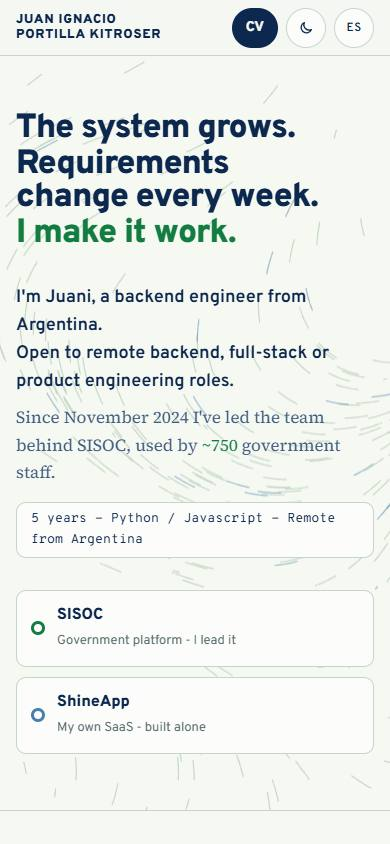
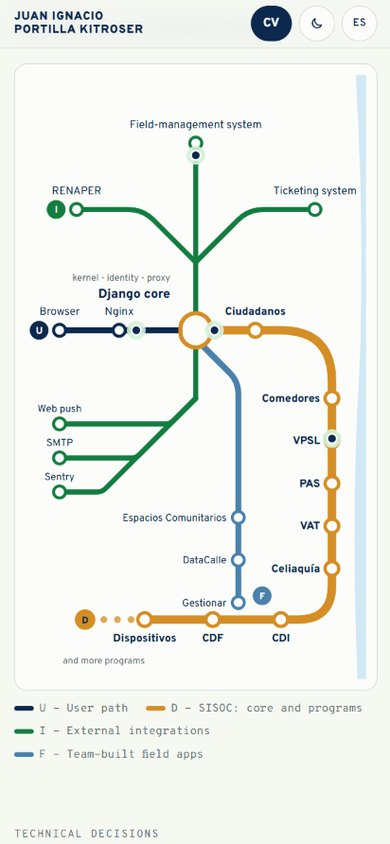
feat: apply Juani's island 2 copy, new phone captures and 12 s works rotation

diff --git a/src/content/projects.ts b/src/content/projects.ts
@@ -78,7 +78,7 @@ export const projects = [
       { src: "/images/proyectos/shineapp/panel.jpg", alt: "Panel de ShineApp con la agenda del día, los indicadores del período y la caja por categoría", width: 1440, height: 900 },
       { src: "/images/proyectos/shineapp/escritorio.jpg", alt: "Pantalla de acceso de ShineApp", width: 1440, height: 900 },
     ],
-    phoneImage: { src: "/images/proyectos/shineapp/celular.jpg", alt: "Pantalla de acceso de ShineApp en el celular", width: 390, height: 844 },
+    phoneImage: { src: "/images/proyectos/shineapp/celular.jpg", alt: "Panel de ShineApp en el celular", width: 390, height: 844 },
     url: "https://shineapp.lat/",
   },
   {
@@ -114,7 +114,7 @@ export const projects = [
     images: [
       { src: "/images/proyectos/consignataria-hacienda/escritorio.jpg", alt: "Inicio de la landing de la consignataria: hacienda pastando y la propuesta con sus botones de contacto", width: 1440, height: 900 },
     ],
-    phoneImage: { src: "/images/proyectos/consignataria-hacienda/celular.jpg", alt: "Inicio de la landing de la consignataria en el celular", width: 390, height: 844 },
+    phoneImage: { src: "/images/proyectos/consignataria-hacienda/celular.jpg", alt: "Cotizador de hacienda de la consignataria en el celular", width: 390, height: 844 },
     url: "https://gymg.com.ar/",
   },
   {
@@ -150,7 +150,7 @@ export const projects = [
     images: [
       { src: "/images/proyectos/portfolio-desarrollador/escritorio.jpg", alt: "Inicio del portfolio en tema oscuro, con el titular y los proyectos SISOC y ShineApp", width: 1440, height: 900 },
     ],
-    phoneImage: { src: "/images/proyectos/portfolio-desarrollador/celular.jpg", alt: "Inicio del portfolio en el celular", width: 390, height: 844 },
+    phoneImage: { src: "/images/proyectos/portfolio-desarrollador/celular.jpg", alt: "Mapa de sistemas del portfolio en el celular", width: 390, height: 844 },
     url: "https://juanikitro.com/",
   },
   {

diff --git a/src/app/world.css b/src/app/world.css
@@ -7118,14 +7118,6 @@ html[data-motion-tier="reduced"] .works-index__shot {
   margin-block: 0.25rem 0.75rem;
 }
 
-.proposal__eyebrow {
-  font-size: 0.72rem;
-  font-weight: 600;
-  letter-spacing: 0.1em;
-  text-transform: uppercase;
-  color: var(--moss);
-}
-
 .proposal__base {
   display: grid;
   gap: 0.15rem;
@@ -7359,10 +7351,6 @@ html[data-motion-tier="reduced"] .works-index__shot {
   .proposal-frame--scene .proposal {
     --p-gap: 2.4cqi;
     --p-pad: 4.6cqi 5cqi 5cqi;
-  }
-
-  .proposal-frame--scene .proposal__eyebrow {
-    font-size: 3.7cqi;
   }
 
   .proposal-frame--scene .proposal__base {
@@ -8199,7 +8187,8 @@ html[data-motion-tier="reduced"] .works-index__shot {
 }
 
 /* Works autoplay: a moss bar fills along the active row's bottom edge in
- * 5 s; it pauses off screen or in a hidden tab, and
+ * 12 s (like the island 2 cases, time for a slow reader; Juani, 22 November
+ * 2026); it pauses off screen or in a hidden tab, and
  * rests at zero while the pointer or focus is on the index. */
 .works-index__progress {
   position: absolute;
@@ -8209,7 +8198,7 @@ html[data-motion-tier="reduced"] .works-index__shot {
   background: var(--moss);
   transform: scaleX(0);
   transform-origin: left center;
-  animation: works-progress 5s linear forwards;
+  animation: works-progress 12s linear forwards;
   animation-play-state: paused;
 }
 

diff --git a/src/content/case-picker.ts b/src/content/case-picker.ts
@@ -28,11 +28,11 @@ export type CaseOption = {
 export type CaseArt = { src: string; frames?: number };
 
 export const casePicker = {
-  prompt: "¿Qué te está pasando hoy? Elegí lo que más se parece y te mostramos por dónde empezar.",
+  prompt: "¿Qué te está pasando hoy?",
   options: [
     { planId: "landing", text: "Me encuentran, pero no tengo dónde mostrar lo que hago.", art: { src: "34-isla2-flor" } },
     { planId: "web-gestion", text: "Paso el día coordinando turnos por WhatsApp.", art: { src: "34-isla2-brote" } },
-    { planId: "sistema", text: "Mi operación vive en planillas y ya no alcanza.", art: { src: "34-isla2-mariposa-tira", frames: 5 } },
+    { planId: "sistema", text: "Mi negocio vive en Excel, WhatsApp y mi cerebro.", art: { src: "34-isla2-mariposa-tira", frames: 5 } },
   ] satisfies readonly CaseOption[],
   resultEyebrow: "Te conviene empezar por",
   detailsCta: "Ver qué incluye",
@@ -42,7 +42,6 @@ export const casePicker = {
    * module per question as it lands, and a closing line.
    */
   proposal: {
-    eyebrow: "Tu propuesta",
     base: { title: "Sistema de gestión", text: "Clientes, ventas y turnos en un solo panel." },
     modules: [
       { question: "¿Cuánto sale?", title: "Bot de WhatsApp", text: "Responde precios y consultas al instante." },

diff --git a/src/components/world/works-index.tsx b/src/components/world/works-index.tsx
@@ -29,7 +29,7 @@ function PendingShot({ index }: { index: string }) {
 
 /**
  * Works as an index with a floating preview (option A of
- * docs/plans/2026-11-20-propuestas.md). Every 5 s the next project takes the
+ * docs/plans/2026-11-20-propuestas.md). Every 12 s the next project takes the
  * preview (a crossfade), with a bar filling under its row to mark the time.
  * Hovering or focusing a project selects it and holds the count at zero
  * until the pointer or focus leaves the index, when it starts again. The
@@ -72,7 +72,7 @@ export function WorksIndex({ projects }: { projects: readonly ProjectEntry[] }) 
     };
   }, []);
 
-  /** Selects a project and starts its 5 s count from zero. */
+  /** Selects a project and starts its 12 s count from zero. */
   function select(index: number) {
     setActive(index);
     setCycle((value) => value + 1);

diff --git a/src/content/islands.ts b/src/content/islands.ts
@@ -8,16 +8,15 @@ export type TitleSegment = string | { em: string };
 
 export type IslandCopy = {
   title: readonly TitleSegment[];
-  body: string;
+  /** Optional: island 2 dropped its line on 22 November 2026. */
+  body?: string;
   /** One line per item of a list the island walks through (the six steps). */
   details?: readonly string[];
 };
 
 export const islandCopy = {
   problem: {
-    title: ["Construyamos tu lugar en ", { em: "internet" }],
-    // 2026-11-20: the questions now assemble a system proposal beside it (problem-island.tsx).
-    body: "Cada pregunta que hoy respondés a mano se convierte en una pieza de tu sistema.",
+    title: ["Construimos lo que ", { em: "necesitás" }, "."],
   },
   packs: {
     title: ["Encontramos lo que necesita ", { em: "tu negocio" }, "."],

diff --git a/src/components/world/problem-island.tsx b/src/components/world/problem-island.tsx
@@ -34,7 +34,6 @@ function Proposal({ inScene }: { inScene: boolean }) {
       className={`proposal-frame ${inScene ? "proposal-frame--scene" : "proposal-frame--flow"}`}
     >
       <div className="proposal">
-        <p className="proposal__eyebrow">{proposal.eyebrow}</p>
         <p className="proposal__base">
           <b>{proposal.base.title}</b>
           <span>{proposal.base.text}</span>
@@ -111,7 +110,6 @@ export function ProblemIsland() {
           <h2 id="problema-title">
             <IslandTitle segments={islandCopy.problem.title} />
           </h2>
-          <p className="isle__body">{islandCopy.problem.body}</p>
           <Proposal inScene={false} />
           <CasePicker />
         </div>

diff --git a/src/components/world/case-picker.tsx b/src/components/world/case-picker.tsx
@@ -141,7 +141,7 @@ export function CasePicker() {
               <p className="case-result__eyebrow">{casePicker.resultEyebrow}</p>
               <h3>{plan.name}</h3>
               <p className="case-result__price">
-                Desde <strong>{plan.price}</strong> · {plan.timeline}
+                Desde <strong>{plan.price}</strong> · Plazo: {plan.timeline}
               </p>
               <p className="case-result__why">{plan.description}</p>
               <div className="case-result__actions">
